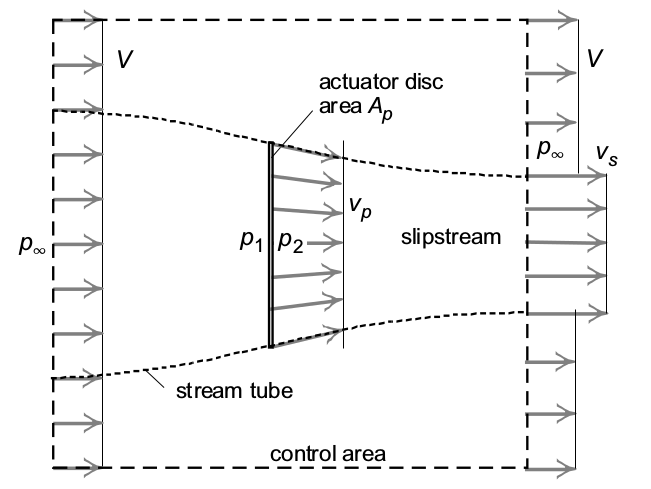
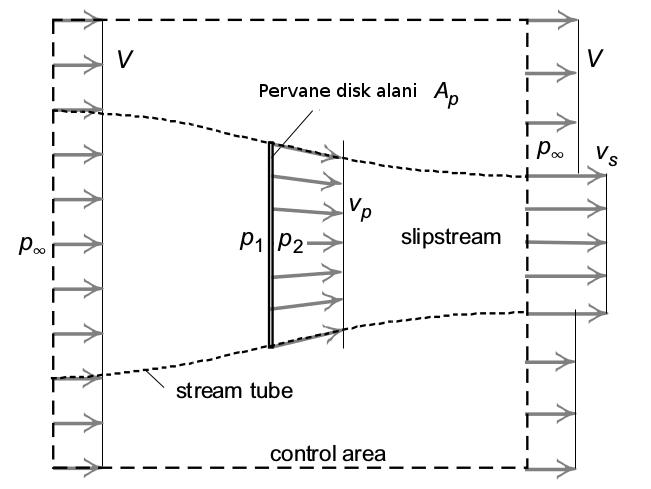
-

Changed region(s): [[0.3994, 0.1534, 0.7066, 0.2454]]

diff --git a/phy/phy_045_flight/phy_045_flight.html b/phy/phy_045_flight/phy_045_flight.html
@@ -64,7 +64,19 @@ gore resimdeki 1 noktasindan 2 noktasina kadar entegral alinca</p>
 F = \int \mathrm{d} F = \dot{m} (v_2 - v_1)
 $$</p>
 <p>Kumanda Eden Disk Teorisi (Actuator Disc Theory)</p>
+<p>Şimdi bir helikopterde kullanılan üstteki pervanenin yarattığı itişi
+hesaplamaya uğraşalım. Eğer pervane dönerken helikoptere üstten baksak bir
+disk görürdük. Şimdi o diske yandan bakalım, bir tek çizgi olarak
+görülebilir, bu dışkın alanı $A_o$ olsun. </p>
 <p><img alt="" src="phy_045_flight_03.png" /></p>
+<p>Bu diske pervane dönmesi sebebiyle hava üstten girer ve alta doğru
+basılır. Bu havanın geçtiği bölgeyi kabaca bir tüp olarak görebiliriz,
+üstte daha büyük altta daha daralan şekilde, bu tüp daha önce işlediğimiz
+içinden hava akan tüp gibi görülebilir. </p>
+<p>$W$ ağırlığında, pervane disk alanı $A$ olan bir helikopter için itiş
+hesabı yapalım [2, sf. 70], bu helikopterin hiçbir yere gitmede asılı
+(hover) durması için ne kadar güç gerekir? </p>
 <p>[devam edecek]</p>
 <p>Kaynaklar </p>
 <p>[1] Wittenberg, <em>Flight Physics</em></p>
+<p>[2] Carpenter, <em>Aerodynamics for Engineering Students</em></p>

diff --git a/phy/phy_045_flight/ucus_hava_dinamigi.html b/phy/phy_045_flight/ucus_hava_dinamigi.html
@@ -64,7 +64,19 @@ gore resimdeki 1 noktasindan 2 noktasina kadar entegral alinca</p>
 F = \int \mathrm{d} F = \dot{m} (v_2 - v_1)
 $$</p>
 <p>Kumanda Eden Disk Teorisi (Actuator Disc Theory)</p>
+<p>Şimdi bir helikopterde kullanılan üstteki pervanenin yarattığı itişi
+hesaplamaya uğraşalım. Eğer pervane dönerken helikoptere üstten baksak bir
+disk görürdük. Şimdi o diske yandan bakalım, bir tek çizgi olarak
+görülebilir, bu dışkın alanı $A_o$ olsun. </p>
 <p><img alt="" src="phy_045_flight_03.png" /></p>
+<p>Bu diske pervane dönmesi sebebiyle hava üstten girer ve alta doğru
+basılır. Bu havanın geçtiği bölgeyi kabaca bir tüp olarak görebiliriz,
+üstte daha büyük altta daha daralan şekilde, bu tüp daha önce işlediğimiz
+içinden hava akan tüp gibi görülebilir. </p>
+<p>$W$ ağırlığında, pervane disk alanı $A$ olan bir helikopter için itiş
+hesabı yapalım [2, sf. 70], bu helikopterin hiçbir yere gitmede asılı
+(hover) durması için ne kadar güç gerekir? </p>
 <p>[devam edecek]</p>
 <p>Kaynaklar </p>
 <p>[1] Wittenberg, <em>Flight Physics</em></p>
+<p>[2] Carpenter, <em>Aerodynamics for Engineering Students</em></p>

diff --git a/stat/stat_180_appendix/ekler.html b/stat/stat_180_appendix/ekler.html
@@ -388,8 +388,8 @@ okunur, .1867, yuvarlanarak .19 da kabul edilebilir. </p>
 <p>3.4 .9997 .9997 .9997 .9997 .9997 .9997 .9997 .9997 .9997 .9998</p>
 <p>Kaynaklar</p>
 <p>[1] Gullickson, {\em Sociology G4075: Introduction to Social Data Analysis
-  II}, \url{https://web.archive.org/web/20160312151715/http://pages.uoregon.edu/aarong/teaching/G4075_Outline/node13.html}</p>
+  II}, <a href="https://web.archive.org/web/20160312151715/http://pages.uoregon.edu/aarong/teaching/G4075_Outline/node13.html">https://web.archive.org/web/20160312151715/http://pages.uoregon.edu/aarong/teaching/G4075_Outline/node13.html</a></p>
 <hr>
 
 <p>Yunan Harfleri</p>
-<p><img alt="" src="../../algs/zapp/letters.png" /></p>
+<p><img alt="" src="../../algs/algs_999_zapp/letters.png" /></p>

diff --git a/stat/stat_180_appendix/stat_180_appendix.html b/stat/stat_180_appendix/stat_180_appendix.html
@@ -388,8 +388,8 @@ okunur, .1867, yuvarlanarak .19 da kabul edilebilir. </p>
 <p>3.4 .9997 .9997 .9997 .9997 .9997 .9997 .9997 .9997 .9997 .9998</p>
 <p>Kaynaklar</p>
 <p>[1] Gullickson, {\em Sociology G4075: Introduction to Social Data Analysis
-  II}, \url{https://web.archive.org/web/20160312151715/http://pages.uoregon.edu/aarong/teaching/G4075_Outline/node13.html}</p>
+  II}, <a href="https://web.archive.org/web/20160312151715/http://pages.uoregon.edu/aarong/teaching/G4075_Outline/node13.html">https://web.archive.org/web/20160312151715/http://pages.uoregon.edu/aarong/teaching/G4075_Outline/node13.html</a></p>
 <hr>
 
 <p>Yunan Harfleri</p>
-<p><img alt="" src="../../algs/zapp/letters.png" /></p>
+<p><img alt="" src="../../algs/algs_999_zapp/letters.png" /></p>

diff --git a/linear/linear_app99/linear_app99.html b/linear/linear_app99/linear_app99.html
@@ -224,4 +224,4 @@ $$</p>
 <hr>
 
 <p>Yunan Harfleri</p>
-<p><img alt="" src="../../algs/zapp/letters.png" /></p>
+<p><img alt="" src="../../algs/algs_999_zapp/letters.png" /></p>

diff --git a/linear/linear_app99/uzakliklar_norm_benzerlik.html b/linear/linear_app99/uzakliklar_norm_benzerlik.html
@@ -224,4 +224,4 @@ $$</p>
 <hr>
 
 <p>Yunan Harfleri</p>
-<p><img alt="" src="../../algs/zapp/letters.png" /></p>
+<p><img alt="" src="../../algs/algs_999_zapp/letters.png" /></p>

diff --git a/calc_multi/calc_multi_app/calc_multi_app.html b/calc_multi/calc_multi_app/calc_multi_app.html
@@ -24,4 +24,4 @@
 </head>
 
 <p>Yunan Harfleri</p>
-<p><img alt="" src="../../algs/zapp/letters.png" /></p>
+<p><img alt="" src="../../algs/algs_999_zapp/letters.png" /></p>

diff --git a/calc_multi/calc_multi_app/ekler.html b/calc_multi/calc_multi_app/ekler.html
@@ -24,4 +24,4 @@
 </head>
 
 <p>Yunan Harfleri</p>
-<p><img alt="" src="../../algs/zapp/letters.png" /></p>
+<p><img alt="" src="../../algs/algs_999_zapp/letters.png" /></p>

diff --git a/chaos/chaos_app99/chaos_app99.html b/chaos/chaos_app99/chaos_app99.html
@@ -24,4 +24,4 @@
 </head>
 
 <p>Yunan Harfleri</p>
-<p><img alt="" src="../../algs/zapp/letters.png" /></p>
+<p><img alt="" src="../../algs/algs_999_zapp/letters.png" /></p>

diff --git a/chaos/chaos_app99/ekler.html b/chaos/chaos_app99/ekler.html
@@ -24,4 +24,4 @@
 </head>
 
 <p>Yunan Harfleri</p>
-<p><img alt="" src="../../algs/zapp/letters.png" /></p>
+<p><img alt="" src="../../algs/algs_999_zapp/letters.png" /></p>

diff --git a/compscieng/compscieng_app99/compscieng_app99.html b/compscieng/compscieng_app99/compscieng_app99.html
@@ -24,4 +24,4 @@
 </head>
 
 <p>Yunan Harfleri</p>
-<p><img alt="" src="../../algs/zapp/letters.png" /></p>
+<p><img alt="" src="../../algs/algs_999_zapp/letters.png" /></p>

diff --git a/compscieng/compscieng_app99/ekler.html b/compscieng/compscieng_app99/ekler.html
@@ -24,4 +24,4 @@
 </head>
 
 <p>Yunan Harfleri</p>
-<p><img alt="" src="../../algs/zapp/letters.png" /></p>
+<p><img alt="" src="../../algs/algs_999_zapp/letters.png" /></p>
